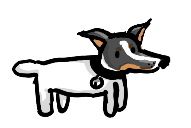
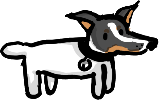
Cambio de imágenes, añadido de rarezas

diff --git a/scripts/mock-items.js b/scripts/mock-items.js
@@ -1,46 +1,41 @@
-// del 0 al 40
+
 export let itemNormal = [
-    { nombre: 'Caca', descripcion: 'Huele muy mal', cantidad: 0, image: 'assets/items/item0.png'},
-    { nombre: 'Planta pocha', descripcion: 'planta normal', cantidad: 0, image: 'assets/items/item1.png'},
-    { nombre: 'Planta con potencial', descripcion: 'planta normal', cantidad: 0, image: 'assets/items/item2.png'},
+    { rareza: 0, nombre: 'Caca', descripcion: 'Huele muy mal', cantidad: 0, image: 'assets/items/item0.png'},
+    { rareza: 0, nombre: 'Planta pocha', descripcion: 'planta normal', cantidad: 0, image: 'assets/items/item1.png'},
+    { rareza: 0, nombre: 'Planta con potencial', descripcion: 'Si se replanta y se cuida quizás sale algo bueno', cantidad: 0, image: 'assets/items/item2.png'},
 ]
 
-// del 40 al 70
 export let itemBuena = [
-    { nombre: 'Florecilla', descripcion: 'La típica', cantidad: 0, image: 'assets/items/item3.png'},
-    { nombre: 'Cactus normal', descripcion: 'Es MUY normal', cantidad: 0, image: 'assets/items/item4.png'},
-    { nombre: 'Chorizo', descripcion: 'Bien picante', cantidad: 0, image: 'assets/items/item5.png'},
-    { nombre: 'Bocadillo', descripcion: 'Viene del suelo pero se limpia y ya vale', cantidad: 0, image: 'assets/items/item6.png'},
-    { nombre: 'Chocolate', descripcion: 'Para aliviar las penas', cantidad: 0, image: 'assets/items/item7.png'},
+    { rareza: 1, nombre: 'Florecilla', descripcion: 'La típica', cantidad: 0, image: 'assets/items/item3.png'},
+    { rareza: 1, nombre: 'Cactus normal', descripcion: 'Es MUY normal', cantidad: 0, image: 'assets/items/item4.png'},
+    { rareza: 1, nombre: 'Chorizo', descripcion: 'Bien picante', cantidad: 0, image: 'assets/items/item5.png'},
+    { rareza: 1, nombre: 'Bocadillo', descripcion: 'Viene del suelo pero se limpia y ya vale', cantidad: 0, image: 'assets/items/item6.png'},
+    { rareza: 1, nombre: 'Chocolate', descripcion: 'Para aliviar las penas', cantidad: 0, image: 'assets/items/item7.png'},
 ]
 
-// del 70 al 80
 export let itemMuyBuena = [
-    { nombre: 'Pintauñas negro', descripcion: 'Gotica culona', cantidad: 0, image: 'assets/items/item8.png'},
-    { nombre: 'Dorayaki', descripcion: 'Ojalá Doraemon fuera real', cantidad: 0, image: 'assets/items/item9.png'},
-    { nombre: 'Haworthia', descripcion: 'Peligrosamente puntiaguda', cantidad: 0, image: 'assets/items/item10.png'},
-    { nombre: 'Kofun', descripcion: 'Tumba antigua japonesa, toda entera para ti', cantidad: 0, image: 'assets/items/item11.png'}
+    { rareza: 2, nombre: 'Pintauñas negro', descripcion: 'Gotica culona', cantidad: 0, image: 'assets/items/item8.png'},
+    { rareza: 2, nombre: 'Dorayaki', descripcion: 'Ojalá Doraemon fuera real', cantidad: 0, image: 'assets/items/item9.png'},
+    { rareza: 2, nombre: 'Haworthia', descripcion: 'Peligrosamente puntiaguda', cantidad: 0, image: 'assets/items/item10.png'},
+    { rareza: 2, nombre: 'Kofun', descripcion: 'Tumba antigua japonesa, toda entera para ti', cantidad: 0, image: 'assets/items/item11.png'}
 ]
 
-// del 80 al 90
 export let itemMuuuyBuena = [
-    { nombre: 'Galletas de shin chan', descripcion: 'Come on baby, come on baby', cantidad: 0, image: 'assets/items/item12.png'},
-    { nombre: 'Niños del Rhythm Heaven', descripcion: 'Coro y Rhythm Heaven, 2x1', cantidad: 0, image: 'assets/items/item13.png'},
-    { nombre: 'Patapon', descripcion: 'El mejor juego de la historia', cantidad: 0, image: 'assets/items/item14.png'},
-    { nombre: 'Vivi', descripcion: 'No podía faltar algo del FFIX', cantidad: 0, image: 'assets/items/item15.png'},
-    { nombre: 'Merluza con gambas y jamón', descripcion: 'Que no se me olvide la mayonesa', cantidad: 0, image: 'assets/items/item16.png'}
+    { rareza: 3, nombre: 'Galletas de shin chan', descripcion: 'Come on baby, come on baby', cantidad: 0, image: 'assets/items/item12.png'},
+    { rareza: 3, nombre: 'Niños del Rhythm Heaven', descripcion: 'Por que los coros molan y Rhythm Heaven también', cantidad: 0, image: 'assets/items/item13.png'},
+    { rareza: 3, nombre: 'Patapon', descripcion: 'El mejor juego de la historia', cantidad: 0, image: 'assets/items/item14.png'},
+    { rareza: 3, nombre: 'Vivi', descripcion: 'No podía faltar algo del FFIX', cantidad: 0, image: 'assets/items/item15.png'},
+    { rareza: 3, nombre: 'Merluza con gambas y jamón', descripcion: 'Que no se me olvide la mayonesa', cantidad: 0, image: 'assets/items/item16.png'}
 ]
 
-// del 90 al 95
 export let itemGenial = [
-    { nombre: 'Martillo de Old Boy', descripcion: 'Lula por dios, eso es peligrosísimo', cantidad: 0, image: 'assets/items/item17.png'},
-    { nombre: 'RTX 3070', descripcion: 'Es imposible de creer pero ahí estaba, tirada en el suelo', cantidad: 0, image: 'assets/items/item18.png'},
-    { nombre: 'Suculenta', descripcion: 'Y encima está perfecta, a cuidarla bien!', cantidad: 0, image: 'assets/items/item19.png'},
-    { nombre: 'Camera Obscura', descripcion: 'Algo malo va a pasar si la tienes!', cantidad: 0, image: 'assets/items/item20.png'},
+    { rareza: 4, nombre: 'Martillo de Old Boy', descripcion: 'Ríe y el mundo reirá contigo', cantidad: 0, image: 'assets/items/item17.png'},
+    { rareza: 4, nombre: 'RTX 3070', descripcion: 'Es imposible de creer pero ahí estaba en la calle', cantidad: 0, image: 'assets/items/item18.png'},
+    { rareza: 4, nombre: 'Suculenta', descripcion: 'Y encima está perfecta, a cuidarla bien!', cantidad: 0, image: 'assets/items/item19.png'},
+    { rareza: 4, nombre: 'Camera Obscura', descripcion: 'Algo malo va a pasar si la tienes!', cantidad: 0, image: 'assets/items/item20.png'},
 ]
 
-// del 95 al 100
 export let itemPerfecta = [
-    { nombre: 'Totoro de peluche', descripcion: 'aruko aruko watashi wa genki!', cantidad: 0, image: 'assets/items/item21.png'},
-    { nombre: 'Pingu', descripcion: 'El mismísimo, viene a saludarte por navidad!', cantidad: 0, image: 'assets/items/item22.png'}
+    { rareza: 5, nombre: 'Totoro de peluche', descripcion: 'aruko aruko watashi wa genki!', cantidad: 0, image: 'assets/items/item21.png'},
+    { rareza: 5, nombre: 'Pingu', descripcion: 'El mismísimo, viene a saludarte por navidad!', cantidad: 0, image: 'assets/items/item22.png'}
 ]

diff --git a/scripts/items.js b/scripts/items.js
@@ -18,24 +18,32 @@ function getItem() {
     fetchColeccion();
 
     randPerc = Math.floor(Math.random() * 100) + 1;
-
-    console.log('randperc: ' + randPerc);
     if (randPerc < 40 && randPerc > 0) {
+        document.querySelector('.sparks').style.background = `linear-gradient(216deg, rgba(227,227,227,1) 0%, rgba(161,161,161,1) 100%)`;
+        document.querySelector('.sparks').style.boxShadow = `0px 0px 30px 5px rgba(41,41,39,0.29)`;
         let num = Math.floor(Math.random() * itemNormal.length);
         agregarCollec(itemNormal[num]);
     } else if (randPerc < 70 && randPerc > 40) {
         let num = Math.floor(Math.random() * itemBuena.length);
         agregarCollec(itemBuena[num]);
     } else if (randPerc < 80 && randPerc > 70) {
+        document.querySelector('.sparks').style.background = `linear-gradient(127deg, #8df2f4, rgb(107 156 255))`;
+        document.querySelector('.sparks').style.boxShadow = `0px 0px 30px 5px rgb(51 144 249 / 44%)`;
         let num = Math.floor(Math.random() * itemMuyBuena.length);
         agregarCollec(itemMuyBuena[num]);
     } else if (randPerc < 90 && randPerc > 80) {
+        document.querySelector('.sparks').style.background = `linear-gradient(127deg, #fed2fe, rgb(222 101 241))`;
+        document.querySelector('.sparks').style.boxShadow = `0px 0px 30px 5px rgb(232 51 249 / 44%)`;
         let num = Math.floor(Math.random() * itemMuuuyBuena.length);
         agregarCollec(itemMuuuyBuena[num]);
     } else if (randPerc < 97 && randPerc > 90) {
+        document.querySelector('.sparks').style.background = `linear-gradient(127deg, #ffe1e1, rgb(245 100 100))`;
+        document.querySelector('.sparks').style.boxShadow = `0px 0px 30px 5px rgb(237 160 160 / 59%)`;
         let num = Math.floor(Math.random() * itemGenial.length);
         agregarCollec(itemGenial[num]);
     } else if (randPerc < 100 && randPerc > 97) {
+        document.querySelector('.sparks').style.background = `linear-gradient(127deg, #fff1c3, rgb(255 135 0))`;
+        document.querySelector('.sparks').style.boxShadow = `0px 0px 30px 5px rgb(249 184 24 / 82%)`;
         let num = Math.floor(Math.random() * itemPerfecta.length);
         agregarCollec(itemPerfecta[num]);
     } else {

diff --git a/styles/resultado.scss b/styles/resultado.scss
@@ -50,14 +50,18 @@
     flex-direction: column;
 }
 #foto {
-    width: 30px;
+    position: absolute;
+    top: 25%;
+    left: 45%;
+    width: 10px;
     height: auto;
-    z-index: 12;
+    z-index: 22;
     animation: fadeIn 1s linear forwards;
     animation-delay: 1s;
     opacity: 0;
 }
 #nombre {
+    width: auto;
     display: flex;
     align-items: flex-start;
     margin-top: 60px;
@@ -154,6 +158,35 @@
     }
 }
 
+@media screen and (max-width: 800px) {
+
+    .human img {
+        width: 40px;
+        margin-left: 20px;
+    }
+
+    .dog img {
+        width: 40px;
+        margin-left: 20px;
+    }
+
+    .sparks {
+        width: 70px;
+        height: 70px;
+    }
+    .flex-item {
+        margin-right: 20px;
+    }
+    
+    #foto {
+        width: 5px;
+        height: auto;
+    }
+    #nombre {
+        font-size: 10px;
+    }
+}
+
 @media screen and (max-width: 400px) {
 
     .human img {
@@ -174,9 +207,8 @@
         margin-right: 20px;
     }
     
-
     #foto {
-        width: 20px;
+        width: 5px;
         height: auto;
     }
     #nombre {

diff --git a/styles/coleccion.scss b/styles/coleccion.scss
@@ -39,6 +39,13 @@ img {
     }
 }
 
+.items-info {
+    display: flex;
+    flex-direction: row;
+    flex-direction: column;
+    justify-content: space-evenly;
+}
+
 #table {
     width: 100%;
     text-align: left;
@@ -49,6 +56,43 @@ img {
     box-sizing: border-box;
     border-width: 0;
     border-style: solid;
+}
+
+.rareza0 {
+    width: 20px;
+    height: 20px;
+    border-radius: 100px;
+    background-color: #555555;
+}
+.rareza1 {
+    width: 20px;
+    height: 20px;
+    border-radius: 100px;
+    background-color: #adec48;
+}
+.rareza2 {
+    width: 20px;
+    height: 20px;
+    border-radius: 100px;
+    background-color: #2ccaf1;
+}
+.rareza3 {
+    width: 20px;
+    height: 20px;
+    border-radius: 100px;
+    background-color: #f548de;
+}
+.rareza4 {
+    width: 20px;
+    height: 20px;
+    border-radius: 100px;
+    background-color: #f12a2a;
+}
+.rareza5 {
+    width: 20px;
+    height: 20px;
+    border-radius: 100px;
+    background-color: #ff8f0f;
 }
 
 #btn-volver {

diff --git a/scripts/getcol.js b/scripts/getcol.js
@@ -16,6 +16,6 @@ function getCollection() {
     }
 
     for (let i=0; i<itemCollec.length; i++) {
-        target.innerHTML += "<tr class='table-tr'><td><img class='table-image' src='" + itemCollec[i].image + "'></img></td><div><td class='items-info'><div>" + itemCollec[i].nombre + "</div><div>" + itemCollec[i].descripcion + "</div></td><td class='cantidad'>" + itemCollec[i].cantidad + "</td></tr>";
+        target.innerHTML += "<tr class='table-tr'><td><div class='rareza" + itemCollec[i].rareza + "'></div></td><td><img class='table-image' src='" + itemCollec[i].image + "'></img></td><td><div>" + itemCollec[i].nombre + "</td><td>" + itemCollec[i].descripcion + "</td><td class='cantidad'>" + itemCollec[i].cantidad + "</td></tr>";
     }
 }

diff --git a/resultado.html b/resultado.html
@@ -40,10 +40,10 @@
             <img class="item-img"></img>
         </div>
         <div class="sparks">
+            <img id="foto"></img>
         </div>
 
-        <div class="flex-item">
-            <img id="foto"></img>
+        <div class="flex-item">    
             <div id="nombre"></div>
         </div>
 

diff --git a/coleccion.html b/coleccion.html
@@ -35,6 +35,8 @@
             <table id="table">
                 <thead>
                     <tr>
+                        <th>Rareza</th>
+                        <th>Imagen</th>
                         <th>Nombre</th>
                         <th>Descripción</th>
                         <th>Cantidad</th>

diff --git a/index.html b/index.html
@@ -66,6 +66,10 @@
                 </button>
             </a>
         </div>
+
+        <div id="instrucciones">
+            <p>¡Sonia ha llevado a Lula de paseo! ¿Qué encontrará Lula en el suelo mientras Sonia envía audios por el Wasap?</p>
+        </div>
     </div>
 </body>
 

diff --git a/styles/index.scss b/styles/index.scss
@@ -212,6 +212,13 @@
     background-color: rgb(0, 0, 0);
 }
 
+#instrucciones {
+    display: flex;
+    margin-top: 20px;
+    align-items: center;
+    justify-content: space-around;
+}
+
 @media screen and (max-width: 1270px) {
     .bg-item {
         top: 40%;
